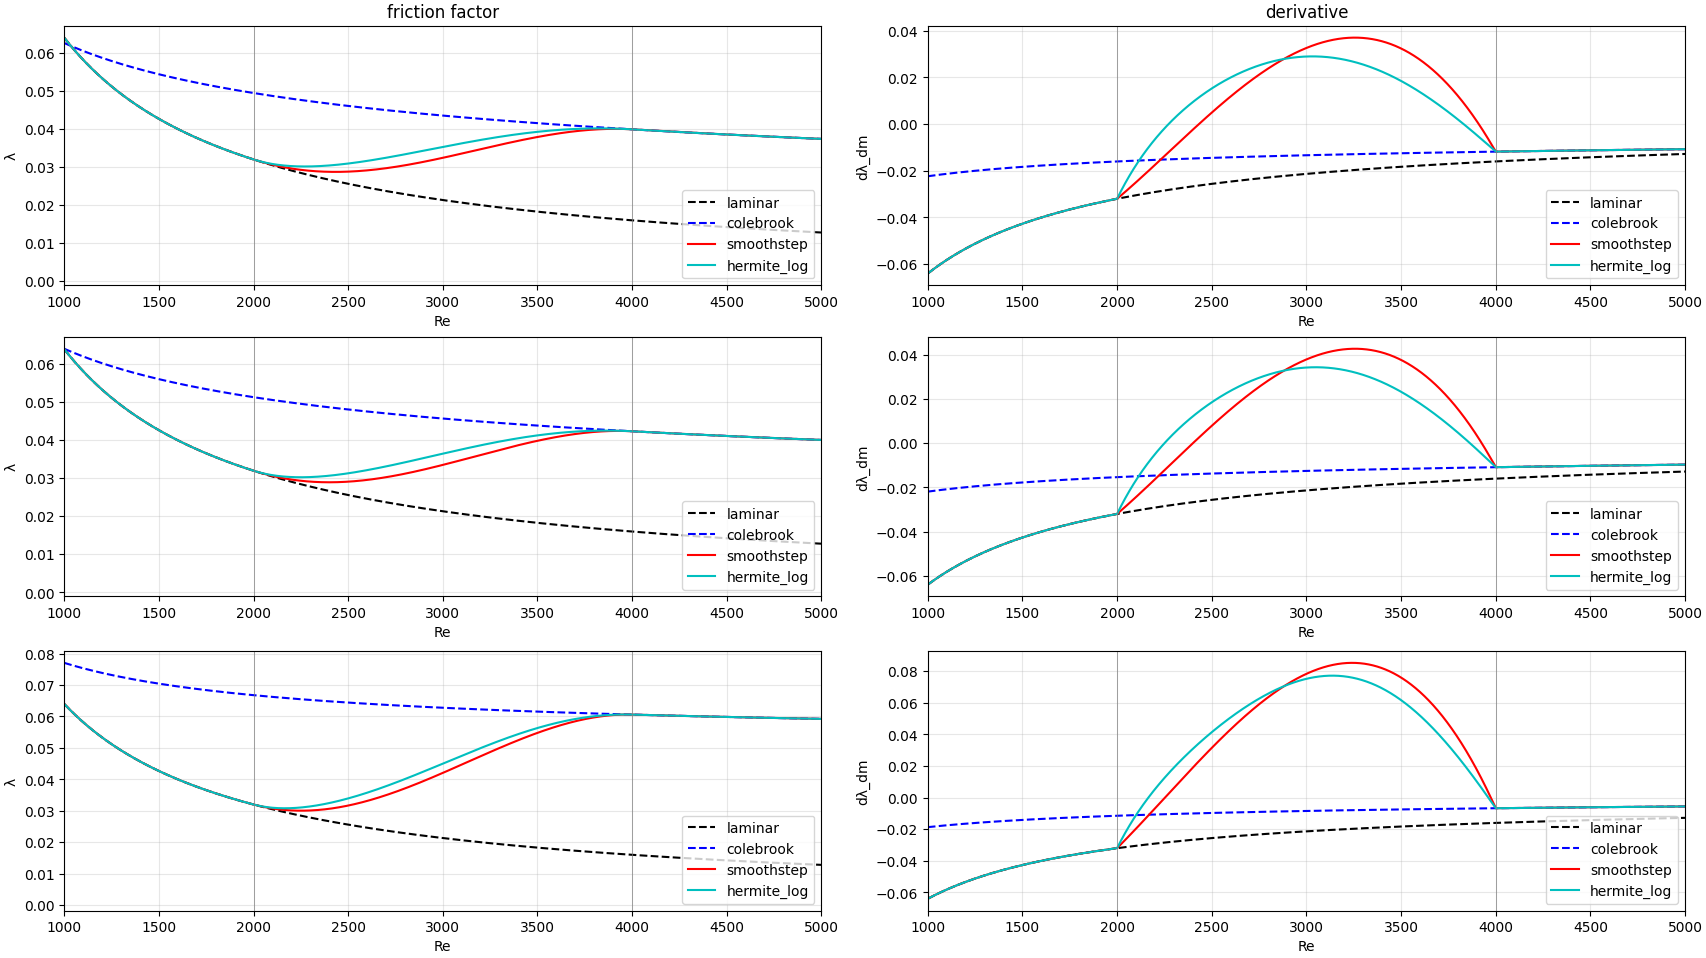
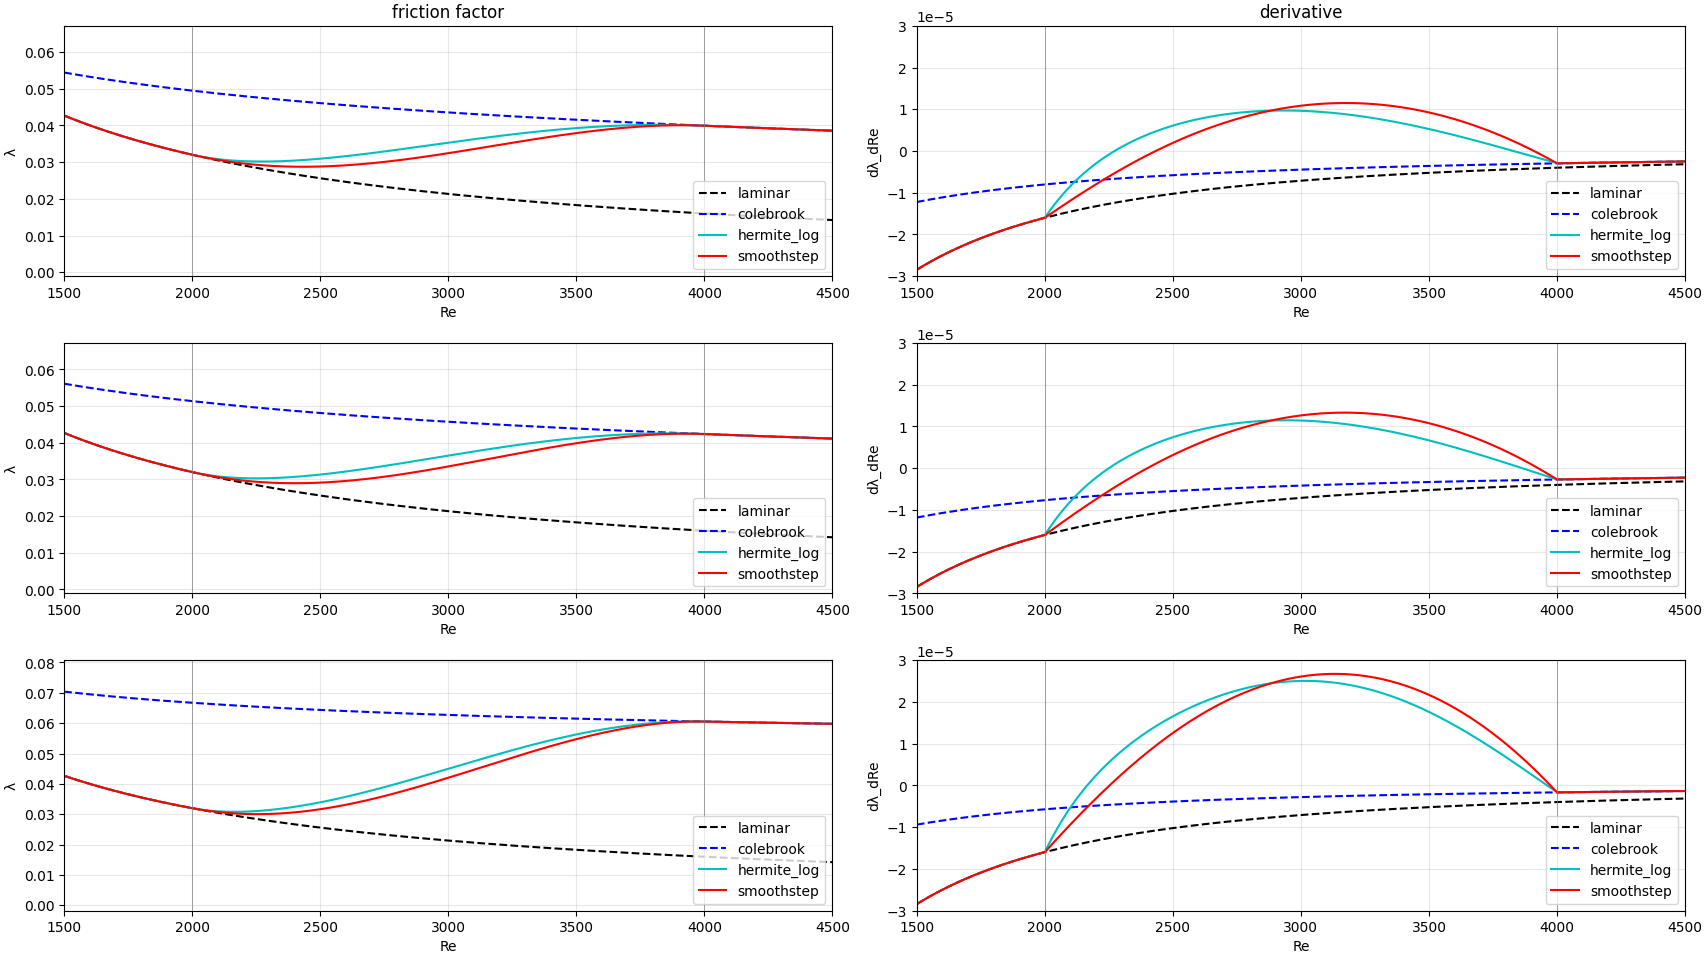
Add test preventing Hermite with incorrect M_*

diff --git a/src/pandapipes/pf/friction_factor_model.py b/src/pandapipes/pf/friction_factor_model.py
@@ -183,6 +183,8 @@ LambdaEstimator: TypeAlias = Callable[[Float64_1D, Float64_1D], Float64_1D]
 
 def _default_initial_estimator(k_over_D: Float64_1D, re: Float64_1D) -> Float64_1D:
     """Default lambda estimator used for Colebrook first iteration."""
+    if np.isclose(k_over_D, 0.0).all():
+        return 64 / re
     return 1 / (-2 * np.log10(k_over_D / 3.71)) ** 2
 
 
@@ -381,12 +383,12 @@ def hermite_log(
         \qquad
         M_i = \left.\frac{dY}{dX}\right|_{X_i}.
 
-    The substitutions
+    The substitution
 
     .. math::
         X &= \ln Re \;\Longrightarrow\; \frac{dRe}{dX} = Re,
 
-    give the slope
+    gives the slope
 
     .. math::
         \frac{dY}{dX}
@@ -394,7 +396,7 @@ def hermite_log(
          = \left(\frac{1}{\lambda}\frac{d\lambda}{dRe} + \frac{2}{Re}\right) Re \\
         &= \frac{Re}{\lambda}\frac{d\lambda}{dRe} + 2 \\
          \Longrightarrow\quad
-         M_i &= \frac{Re}{\lambda_i}\frac{d\lambda_i}{dRe} + 2.
+         M_i &= \frac{Re_i}{\lambda_i}\frac{d\lambda_i}{dRe} + 2.
 
 
     The back-transform is
@@ -408,11 +410,11 @@ def hermite_log(
     # same-shape arrays for the protocol
     re_lam_arr = np.full_like(re, re_lam)
     re_turb_arr = np.full_like(re, re_turb)
-    lambda_lam, dlambda_dm_lam = f_lam.compute_lambda_and_dlambda_dre(
+    lambda_lam, dlambda_dre_lam = f_lam.compute_lambda_and_dlambda_dre(
         k_over_D,
         re_lam_arr,
     )
-    lambda_turb, dlambda_dm_turb = f_turb.compute_lambda_and_dlambda_dre(
+    lambda_turb, dlambda_dre_turb = f_turb.compute_lambda_and_dlambda_dre(
         k_over_D,
         re_turb_arr,
     )
@@ -421,8 +423,8 @@ def hermite_log(
     X_turb = math.log(re_turb)
     Y_lam = np.log(lambda_lam) + 2.0 * X_lam
     Y_turb = np.log(lambda_turb) + 2.0 * X_turb
-    M_lam = re / lambda_lam * dlambda_dm_lam + 2.0
-    M_turb = re / lambda_turb * dlambda_dm_turb + 2.0
+    M_lam = re_lam_arr / lambda_lam * dlambda_dre_lam + 2.0
+    M_turb = re_turb_arr / lambda_turb * dlambda_dre_turb + 2.0
 
     span = X_turb - X_lam
     inv_span = 1.0 / span

diff --git a/src/pandapipes/test/pipeflow_internals/test_friction_factor_model.py b/src/pandapipes/test/pipeflow_internals/test_friction_factor_model.py
@@ -163,6 +163,42 @@ def transition_strategy(request):
     return request.param
 
 
+def test_hermite_log_is_single_cubic():
+    r"""Test that ``hermite_log`` produces a single cubic in T.
+
+    The blend is fixed by the boundary data alone, so every evaluation
+    point must lie on the same cubic. If ``M_lam`` / ``M_turb`` are built
+    from the per-point ``re`` instead of ``re_lam`` / ``re_turb``, then
+    then :math:`M_{\mathrm{lam}}(T)` varies with :math:`T` and each point
+    lies on a *different* cubic.
+
+    Method: fit a cubic through the first 4 interior points — four points
+    uniquely determine a cubic — and check the remaining points lie on
+    it. Correct implementation gives residual ~1e-14; the buggy version
+    gives ~1e-2.
+    """
+    re_lam = 2000.0
+    re_turb = 4000.0
+    # interior points: 4 to fit poly, 4 to test
+    re = np.linspace(re_lam, re_turb, 10)[1:-1]
+    k_over_D = np.full_like(re, 0.1)
+
+    lambda_, _ = fm.hermite_log(
+        k_over_D,
+        re,
+        re_lam=re_lam,
+        re_turb=re_turb,
+        f_lam=fm.Laminar(),
+        f_turb=fm.Colebrook(),
+    )
+    # X = ln Re; Y = ln (lambda_ * Re**2) -- same in implementation
+    # T -- normalised X, lies in [0, 1]
+    Ts = (np.log(re) - np.log(re_lam)) / (np.log(re_turb) - np.log(re_lam))
+    Ys = np.log(lambda_) + 2.0 * np.log(re)
+    poly = np.polynomial.Polynomial.fit(Ts[:4], Ys[:4], deg=3)
+    np.testing.assert_allclose(Ys[4:], poly(Ts[4:]), rtol=1e-10, atol=1e-12)
+
+
 def test_transition_strategy_c1_continuity(transition_strategy):
     """Check the transition strategies are C1-continuous at re_lam / re_turb.
 
